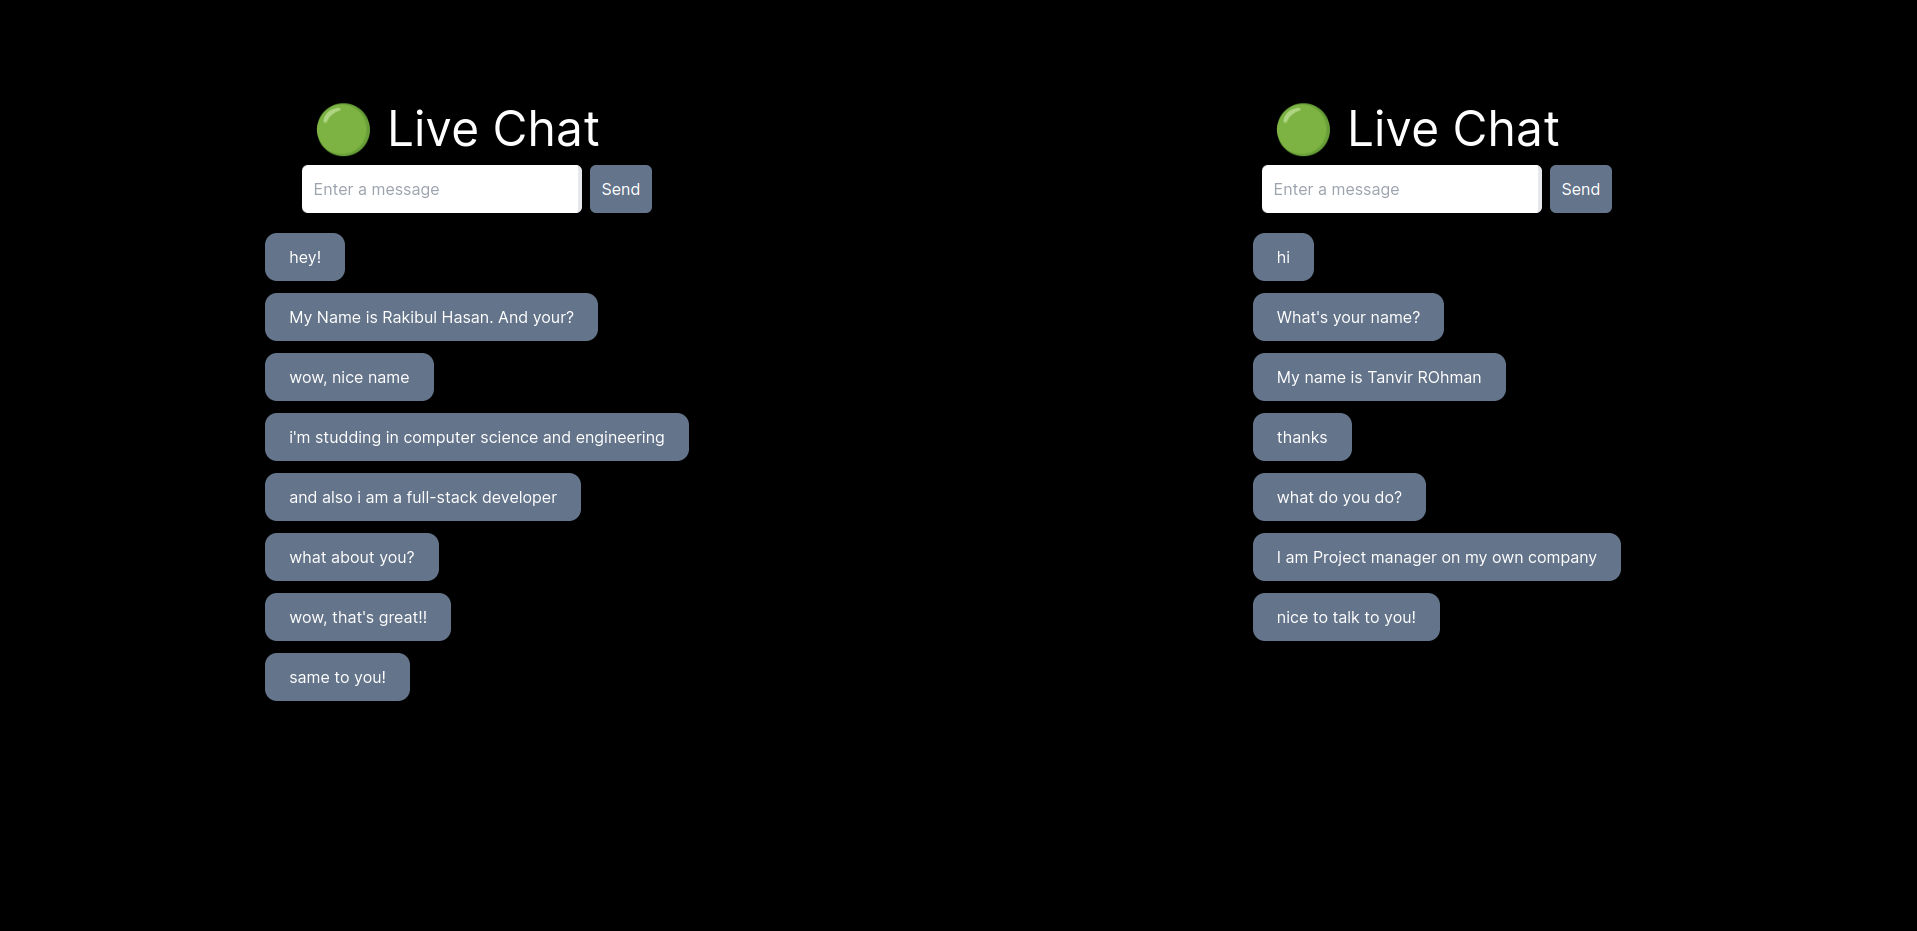
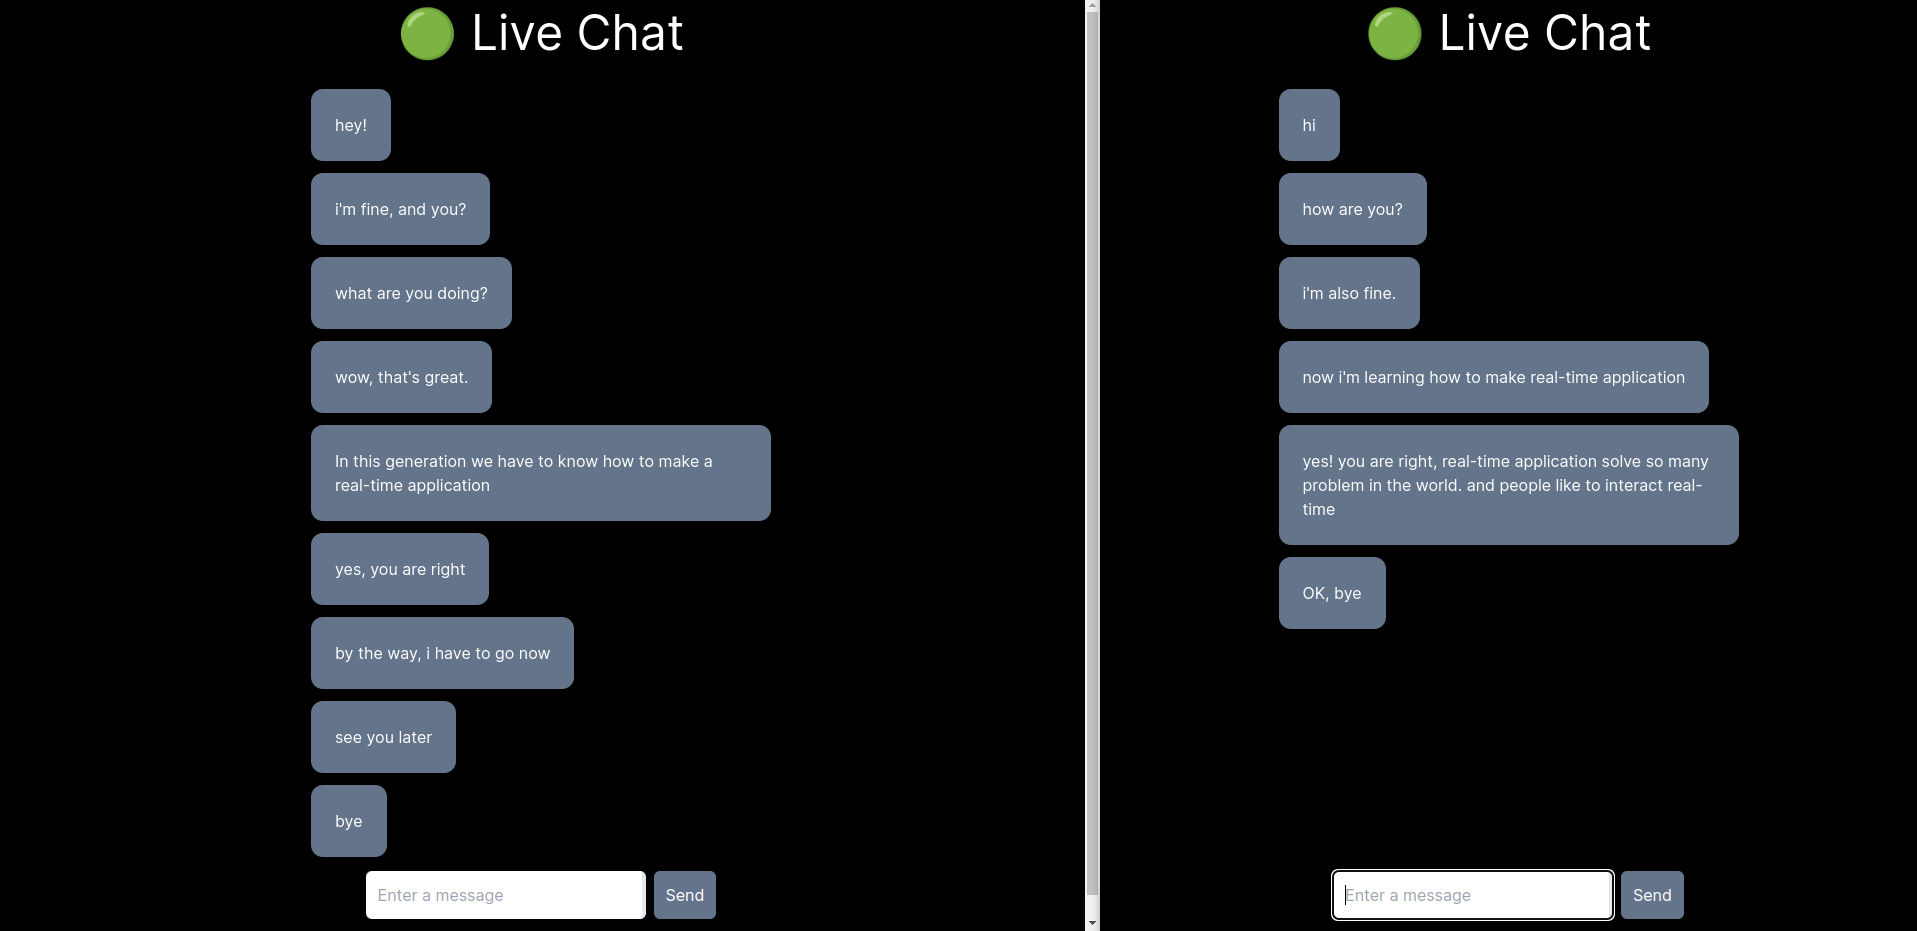
fix bug and update preview picture

diff --git a/socketio/src/app/page.tsx b/socketio/src/app/page.tsx
@@ -40,11 +40,11 @@ export default function Home() {
   }, []);
 
   return (
-    <main className="flex min-h-screen flex-col items-center p-24 scroll-smooth">
-      <div className="sticky top-0 min-w-[100vw] backdrop-blur-md flex flex-col items-center">
+    <main className="flex min-h-screen flex-col items-center pb-16 scroll-smooth">
+      <div className="sticky top-0 min-w-full backdrop-blur-md flex flex-col items-center">
         <h1 className="text-5xl p-3">🟢 Live Chat</h1>
       </div>
-      <div className="flex space-x-2 fixed bottom-5">
+      <div className="flex justify-center space-x-2 fixed bottom-0 pb-3 min-w-full backdrop-blur-md">
         <input
           className="text-black  p-3  rounded-md border-r-4"
           type="text"
@@ -73,7 +73,7 @@ export default function Home() {
 
 const Message = ({ content }: { content: string }) => {
   return (
-    <div className="flex justify-start text-left items-center bg-slate-500 h-7 w-fit p-6 rounded-xl mb-3">
+    <div className="flex justify-start text-left items-center bg-slate-500 h-fit w-fit p-6 rounded-xl mb-3">
       <p>{content}</p>
     </div>
   );
